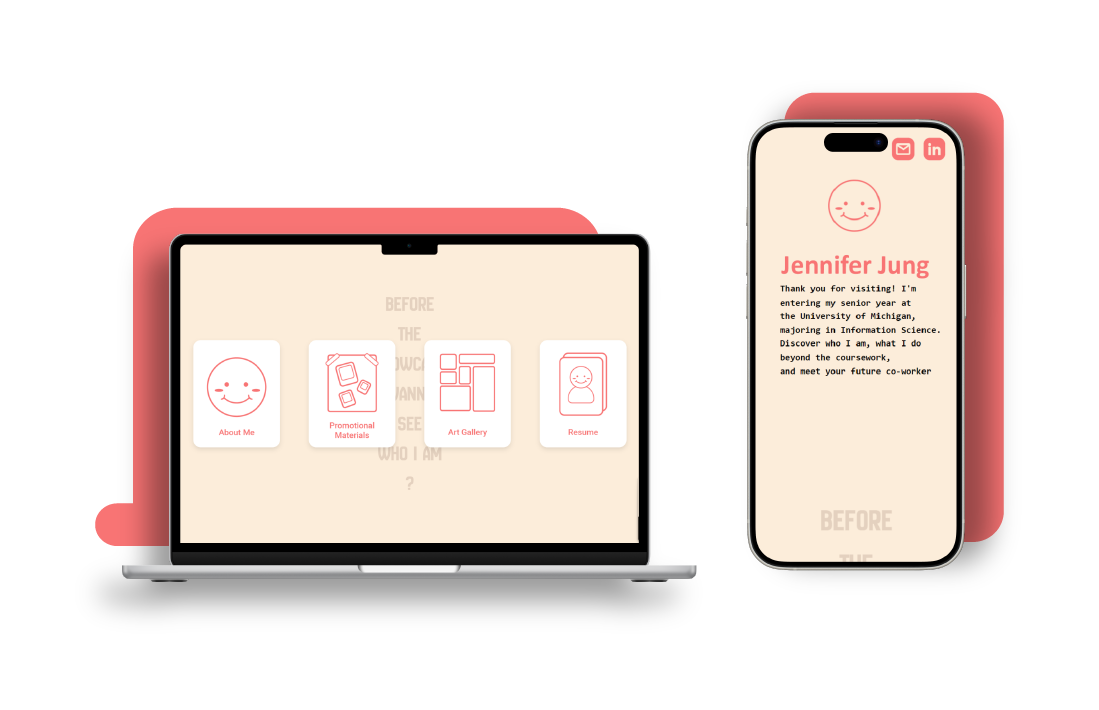
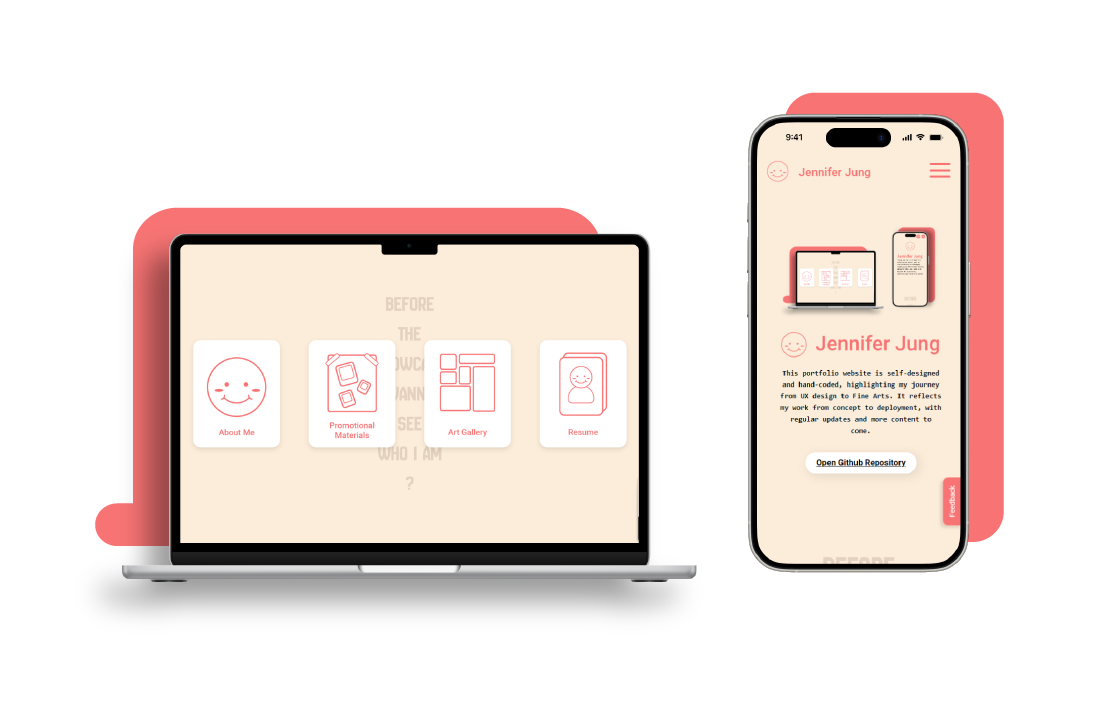
lower feedback

Changed region(s): [[0.6806, 0.1239, 0.9281, 0.8056], [0.7425, 0.7127, 0.8044, 0.7437]]

diff --git a/index.html b/index.html
@@ -216,8 +216,8 @@
         .index-name {
             display: flex;
             flex-direction: row;
-            align-items: center;
-            justify-content: center;
+            align-items: left;
+            justify-content: left;
         }
 
         #index-logo {
@@ -270,10 +270,19 @@
             }
 
             .index-github{
-                width: auto;
+                width: 200px;
+                height: 10vw;
                 margin-top: 30px;
+                border-radius: 30px;
+                /* border: solid 1px #F87474; */
+
 
             }
+
+            .index-name {
+            align-items: center;
+            justify-content: center;
+        }
         }
 
 
@@ -602,9 +611,9 @@
 
             <p class="index-intro">
 
-                Welcome, I am senior year student at UofM, studying Information Science (UX Design) <br><br>
+                <!-- Welcome, I am senior year student at UofM, studying Information Science (UX Design) <br><br> -->
 
-                This portfolio website is entirely self-designed and developed, highlighting my journey from UX design
+                This portfolio website is self-designed and hand-coded, highlighting my journey from UX design
                 to Fine Arts. It reflects my work from concept to deployment, with regular updates and more content to
                 come.
             </p>

diff --git a/style.css b/style.css
@@ -137,7 +137,7 @@ a:focus .index-linkedin {
 
 svg {
     fill: none;
-    height: 10vh;
+    height: vh;
     stroke-width: 60px;
     stroke-linecap: round;
 }
@@ -419,7 +419,7 @@ path {
     font-weight: 600;
     text-decoration: underline;
     cursor: pointer;
-    color: black;
+    color: #F87474;
 }
 
 

diff --git a/feedback.css b/feedback.css
@@ -137,6 +137,7 @@ button:hover {
         right: -30px !important;
         padding: 10px 16px !important;
         overflow-x: hidden;
+        top: 90%;
 
     }
 
